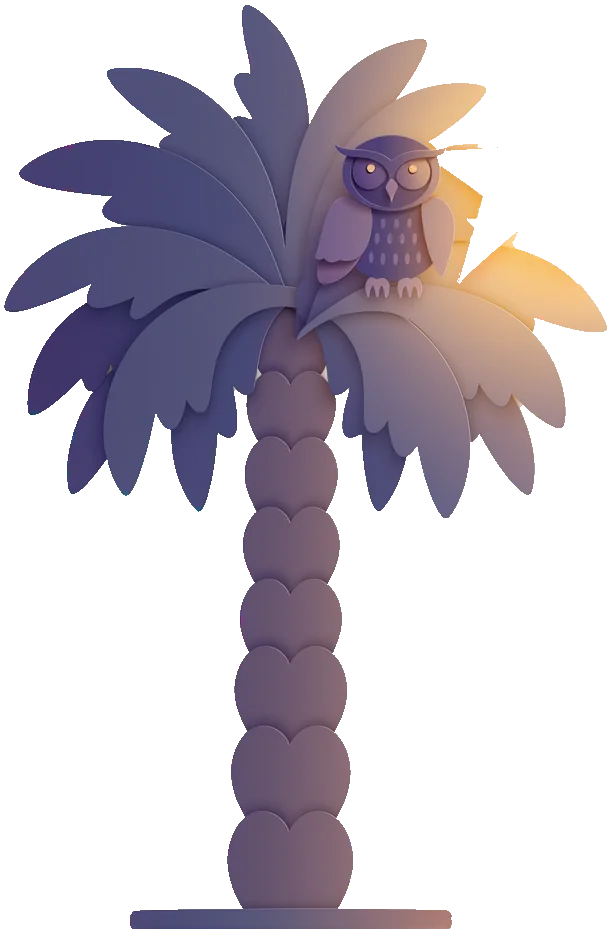
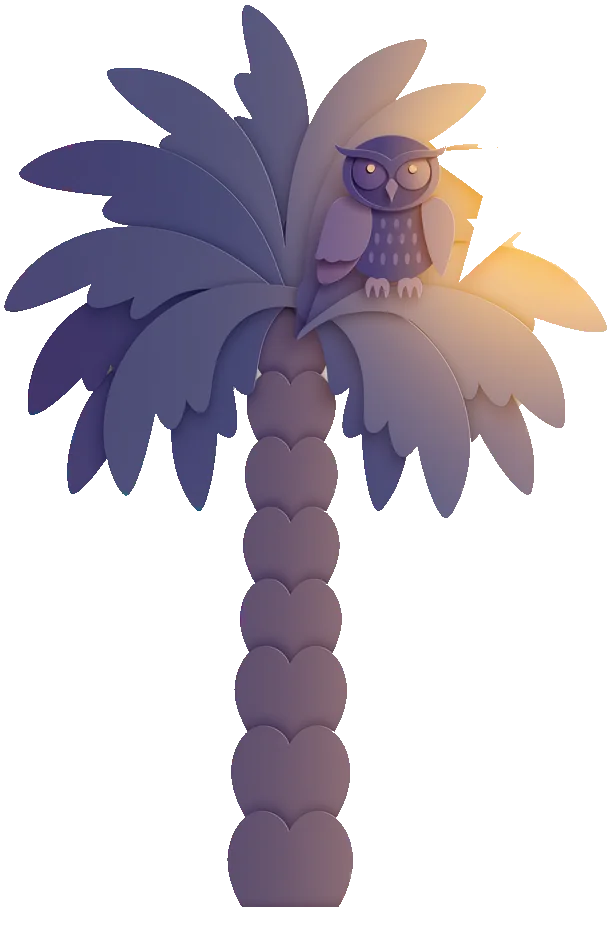
Journey: the kings ride home empty-handed (their gifts were given at the stable); a courtyard inn; round 11 art without its stage; the owl's palm cleaned

Changed region(s): [[0.2177, 0.9625, 0.7463, 1.0]]

diff --git a/src/journey/art-ready.js b/src/journey/art-ready.js
@@ -1,2 +1,2 @@
 // The Firefly art that has been processed into src/journey/art/ (written by docs/firefly/process-art.py).
-var JOURNEY_ART_READY = ["jr-sky-night", "jr-sky-dusk", "jr-sky-deep", "jr-sky-clouds", "jr-sky-predawn", "jr-far-plains", "jr-far-plains-2", "jr-far-mountains", "jr-far-mountains-2", "jr-far-mesas", "jr-far-mesas-2", "jr-far-rocky-peaks", "jr-far-judean-hills", "jr-far-judean-hills-2", "jr-mid-plains-palms", "jr-mid-fields", "jr-mid-dunes", "jr-mid-dunes-2", "jr-mid-dunes-3", "jr-mid-rocky", "jr-mid-olive-terraces", "jr-mid-olive-terraces-2", "jr-near-path-2", "jr-near-rocky-road", "jr-near-path", "jr-near-rocky-road-2", "jr-near-sand-3", "jr-lm-caravanserai", "jr-lm-caravanserai-2", "jr-lm-oasis-2", "jr-lm-bethlehem", "jr-en-donkey", "jr-en-goat-herder", "jr-fg-boulders", "jr-fg-date-palm-2", "jr-fg-reeds", "jr-camel-rider", "jr-camel-rider-2", "jr-camel-rider-3", "jr-lm-east-palace", "jr-lm-jerusalem", "jr-lm-stable", "jr-lm-stable-empty", "jr-lm-shepherds", "jr-lm-camp", "jr-lm-oasis", "jr-lm-river", "jr-lm-camp-2", "jr-lm-camp-3", "jr-lm-ruins", "jr-lm-mountain-pass", "jr-lm-well", "jr-lm-olive-grove", "jr-far-bethlehem", "jr-en-gazelles", "jr-en-merchants", "jr-en-ibex", "jr-en-sheep", "jr-en-fox", "jr-en-hare", "jr-en-owl", "jr-en-bedouin-tents", "jr-en-standing-stones", "jr-en-lantern-travelers", "jr-en-farmhouse", "jr-en-herons", "jr-cr-jerboa", "jr-cr-sand-mouse", "jr-cr-gecko", "jr-cr-owl-wings-up", "jr-cr-bat", "jr-cr-hedgehog", "jr-cr-owl-wings-down", "jr-fg-date-palm", "jr-fg-acacia", "jr-fg-olive-tree", "jr-fg-palm-group", "jr-fg-acacia-2", "jr-fg-boulders-2", "jr-fg-grass", "jr-fg-grass-2", "jr-fg-olive-tree-2", "jr-fg-stone-wall", "jr-mid-rocky-2", "jr-near-riverbank", "jr-near-sand-2", "jr-sky-night-2", "jr-sky-dusk-2", "jr-sky-storm", "jr-sky-sandstorm", "jr-far-pass", "jr-char-camel-1", "jr-char-camel-2", "jr-char-camel-3", "jr-char-camel-1-kneel", "jr-char-camel-2-kneel", "jr-char-camel-3-kneel", "jr-char-king-1-ride", "jr-char-king-1-walk", "jr-char-king-1-kneel", "jr-char-king-1-walk-free", "jr-char-king-1-rest", "jr-char-king-2-ride", "jr-char-king-2-walk", "jr-char-king-2-kneel", "jr-char-king-2-walk-free", "jr-char-king-3-ride", "jr-char-king-3-walk", "jr-char-king-3-kneel", "jr-char-king-3-walk-free", "jr-char-king-3-rest", "jr-lm-herod-palace", "jr-lm-jerusalem-gate", "jr-en-angel", "jr-cloud-1", "jr-cloud-2", "jr-cloud-3", "jr-cloud-4", "jr-cloud-storm-1", "jr-near-riverbank-2", "jr-near-sand-4", "jr-an-owl-0", "jr-an-owl-1", "jr-an-owl-2", "jr-an-hare-0", "jr-an-hare-1", "jr-an-hare-2", "jr-an-hare-3", "jr-pip-sit", "jr-pip-hop", "jr-pip-wave", "jr-pip-trot-0", "jr-pip-trot-1", "jr-pip-trot-2", "jr-pip-trot-3", "jr-jackal-stand", "jr-jackal-trot", "jr-howl-jackal", "jr-wolf-stand", "jr-wolf-trot", "jr-howl-wolf"];
+var JOURNEY_ART_READY = ["jr-sky-night", "jr-sky-dusk", "jr-sky-deep", "jr-sky-clouds", "jr-sky-predawn", "jr-far-plains", "jr-far-plains-2", "jr-far-mountains", "jr-far-mountains-2", "jr-far-mesas", "jr-far-mesas-2", "jr-far-rocky-peaks", "jr-far-judean-hills", "jr-far-judean-hills-2", "jr-mid-plains-palms", "jr-mid-fields", "jr-mid-dunes", "jr-mid-dunes-2", "jr-mid-dunes-3", "jr-mid-rocky", "jr-mid-olive-terraces", "jr-mid-olive-terraces-2", "jr-near-path-2", "jr-near-rocky-road", "jr-near-path", "jr-near-rocky-road-2", "jr-near-sand-3", "jr-lm-caravanserai", "jr-lm-caravanserai-2", "jr-lm-oasis-2", "jr-lm-bethlehem", "jr-en-donkey", "jr-en-goat-herder", "jr-fg-boulders", "jr-fg-date-palm-2", "jr-fg-reeds", "jr-camel-rider", "jr-camel-rider-2", "jr-camel-rider-3", "jr-lm-east-palace", "jr-lm-jerusalem", "jr-lm-stable", "jr-lm-stable-empty", "jr-lm-shepherds", "jr-lm-camp", "jr-lm-oasis", "jr-lm-river", "jr-lm-camp-2", "jr-lm-camp-3", "jr-lm-ruins", "jr-lm-mountain-pass", "jr-lm-well", "jr-lm-olive-grove", "jr-far-bethlehem", "jr-en-gazelles", "jr-en-merchants", "jr-en-ibex", "jr-en-sheep", "jr-en-fox", "jr-en-hare", "jr-en-owl", "jr-en-bedouin-tents", "jr-en-standing-stones", "jr-en-lantern-travelers", "jr-en-farmhouse", "jr-en-herons", "jr-cr-jerboa", "jr-cr-sand-mouse", "jr-cr-gecko", "jr-cr-owl-wings-up", "jr-cr-bat", "jr-cr-hedgehog", "jr-cr-owl-wings-down", "jr-fg-date-palm", "jr-fg-acacia", "jr-fg-olive-tree", "jr-fg-palm-group", "jr-fg-acacia-2", "jr-fg-boulders-2", "jr-fg-grass", "jr-fg-grass-2", "jr-fg-olive-tree-2", "jr-fg-stone-wall", "jr-mid-rocky-2", "jr-near-riverbank", "jr-near-sand-2", "jr-sky-night-2", "jr-sky-dusk-2", "jr-sky-storm", "jr-sky-sandstorm", "jr-far-pass", "jr-char-camel-1", "jr-char-camel-2", "jr-char-camel-3", "jr-char-camel-1-kneel", "jr-char-camel-2-kneel", "jr-char-camel-3-kneel", "jr-char-king-1-ride", "jr-char-king-1-walk", "jr-char-king-1-kneel", "jr-char-king-1-walk-free", "jr-char-king-1-rest", "jr-char-king-1-ride-home", "jr-char-king-2-ride", "jr-char-king-2-walk", "jr-char-king-2-kneel", "jr-char-king-2-walk-free", "jr-char-king-2-ride-home", "jr-char-king-3-ride", "jr-char-king-3-walk", "jr-char-king-3-kneel", "jr-char-king-3-walk-free", "jr-char-king-3-rest", "jr-char-king-3-ride-home", "jr-lm-herod-palace", "jr-lm-jerusalem-gate", "jr-en-angel", "jr-cloud-1", "jr-cloud-2", "jr-cloud-3", "jr-cloud-4", "jr-cloud-storm-1", "jr-near-riverbank-2", "jr-near-sand-4", "jr-an-owl-0", "jr-an-owl-1", "jr-an-owl-2", "jr-an-hare-0", "jr-an-hare-1", "jr-an-hare-2", "jr-an-hare-3", "jr-pip-sit", "jr-pip-hop", "jr-pip-wave", "jr-pip-trot-0", "jr-pip-trot-1", "jr-pip-trot-2", "jr-pip-trot-3", "jr-jackal-stand", "jr-jackal-trot", "jr-howl-jackal", "jr-wolf-stand", "jr-wolf-trot", "jr-howl-wolf"];

diff --git a/src/journey/index.html b/src/journey/index.html
@@ -309,14 +309,14 @@ header, .player, .rotate {transition:transform 0.5s ease, opacity 0.5s ease;}
 	</footer>
 
 	<script src="/assets/js/site.js" defer></script>
-	<script src="/journey/camels.js?v=202610241848" defer></script>
-	<script src="/journey/camel-rig.js?v=202610241848" defer></script>
-	<script src="/journey/art-ready.js?v=202610241848" defer></script>
-	<script src="/journey/readings.js?v=202610241848" defer></script>
-	<script src="/journey/pip.js?v=202610241848" defer></script>
-	<script src="/journey/plan.js?v=202610241848" defer></script>
-	<script src="/journey/audio-ready.js?v=202610241848" defer></script>
-	<script src="/journey/sound.js?v=202610241848" defer></script>
-	<script src="/journey/journey.js?v=202610241848" defer></script>
+	<script src="/journey/camels.js?v=202610241911" defer></script>
+	<script src="/journey/camel-rig.js?v=202610241911" defer></script>
+	<script src="/journey/art-ready.js?v=202610241911" defer></script>
+	<script src="/journey/readings.js?v=202610241911" defer></script>
+	<script src="/journey/pip.js?v=202610241911" defer></script>
+	<script src="/journey/plan.js?v=202610241911" defer></script>
+	<script src="/journey/audio-ready.js?v=202610241911" defer></script>
+	<script src="/journey/sound.js?v=202610241911" defer></script>
+	<script src="/journey/journey.js?v=202610241911" defer></script>
 </body>
 </html>
